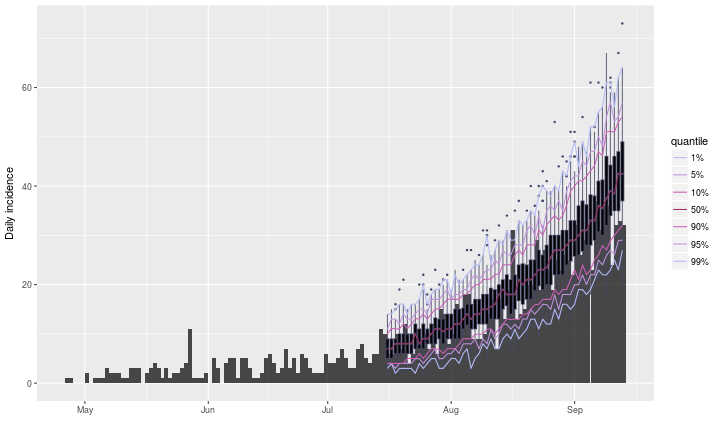
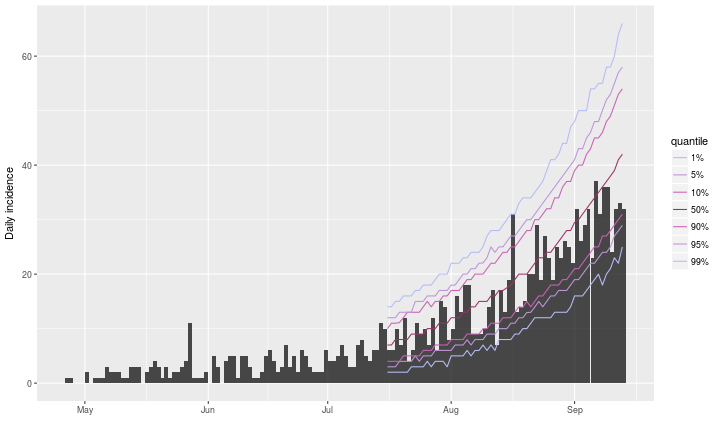
updating graphics

diff --git a/README.md b/README.md
@@ -130,7 +130,7 @@ of 1.5, from day 100 and for 60 days:
 ```r
 library(projections)
 set.seed(1)
-pred <- project(i[1:100], R = 1.5, si = si, n_days = 60)
+pred <- project(i[1:100], R = 1.5, si = si, n_days = 60, n_sim = 1000)
 pred
 ```
 
@@ -139,14 +139,14 @@ pred
 ## /// Incidence projections //
 ## 
 ##   // class: projections, matrix
-##   // 60 dates (rows); 100 simulations (columns)
+##   // 60 dates (rows); 1,000 simulations (columns)
 ## 
 ##  // first rows/columns:
 ##            [,1] [,2] [,3] [,4] [,5] [,6]
-## 2014-07-16    8    6    5   14    8    5
-## 2014-07-17    8    4    7    7    6   14
-## 2014-07-18    8    9    9    9    7   13
-## 2014-07-19   12   11   10    9    9    4
+## 2014-07-16    7    8    6   12    4    3
+## 2014-07-17   10    7    5    7   10   12
+## 2014-07-18    3    6    6   11    6    6
+## 2014-07-19    9    7    9    9    6   12
 ##  .
 ##  .
 ##  .
@@ -178,25 +178,25 @@ apply(pred, 1, mean) # average prediction per day
 
 ```
 ## 2014-07-16 2014-07-17 2014-07-18 2014-07-19 2014-07-20 2014-07-21 
-##       7.21       7.50       7.85       7.89       8.20       8.15 
+##      6.912      7.289      7.706      7.774      8.098      8.425 
 ## 2014-07-22 2014-07-23 2014-07-24 2014-07-25 2014-07-26 2014-07-27 
-##       8.46       9.27       9.01       9.38       9.44      10.21 
+##      8.669      9.112      9.272      9.712     10.003     10.024 
 ## 2014-07-28 2014-07-29 2014-07-30 2014-07-31 2014-08-01 2014-08-02 
-##      11.13      10.95      10.84      11.55      11.42      12.20 
+##     10.477     10.943     11.320     11.410     12.073     12.162 
 ## 2014-08-03 2014-08-04 2014-08-05 2014-08-06 2014-08-07 2014-08-08 
-##      12.19      13.17      13.99      13.78      14.39      14.32 
+##     12.543     13.035     13.437     13.667     14.265     14.718 
 ## 2014-08-09 2014-08-10 2014-08-11 2014-08-12 2014-08-13 2014-08-14 
-##      15.29      15.54      16.12      16.13      17.12      18.33 
+##     14.908     15.553     16.114     16.328     16.844     17.398 
 ## 2014-08-15 2014-08-16 2014-08-17 2014-08-18 2014-08-19 2014-08-20 
-##      18.59      18.17      18.99      20.29      20.24      20.96 
+##     17.880     18.263     18.995     19.770     20.108     20.817 
 ## 2014-08-21 2014-08-22 2014-08-23 2014-08-24 2014-08-25 2014-08-26 
-##      21.65      21.97      23.41      23.13      24.30      25.14 
+##     21.260     22.123     22.876     23.247     23.956     24.795 
 ## 2014-08-27 2014-08-28 2014-08-29 2014-08-30 2014-08-31 2014-09-01 
-##      26.47      26.07      26.64      27.75      29.24      30.19 
+##     25.603     26.175     27.145     27.997     28.709     29.856 
 ## 2014-09-02 2014-09-03 2014-09-04 2014-09-05 2014-09-06 2014-09-07 
-##      30.87      31.94      31.87      33.59      33.69      35.98 
+##     30.484     31.232     32.390     33.385     34.336     34.978 
 ## 2014-09-08 2014-09-09 2014-09-10 2014-09-11 2014-09-12 2014-09-13 
-##      36.36      38.54      39.53      39.78      41.56      43.24
+##     36.270     37.390     38.474     39.556     41.200     42.389
 ```
 
 ```r
@@ -205,35 +205,35 @@ apply(pred, 1, range) # range across simulations
 
 ```
 ##      2014-07-16 2014-07-17 2014-07-18 2014-07-19 2014-07-20 2014-07-21
-## [1,]          2          3          2          2          2          2
-## [2,]         14         15         16         19         21         15
+## [1,]          0          1          1          0          1          1
+## [2,]         16         17         17         17         17         18
 ##      2014-07-22 2014-07-23 2014-07-24 2014-07-25 2014-07-26 2014-07-27
-## [1,]          2          2          3          1          2          4
-## [2,]         16         16         20         22         18         19
+## [1,]          1          2          1          2          2          2
+## [2,]         21         19         22         21         20         23
 ##      2014-07-28 2014-07-29 2014-07-30 2014-07-31 2014-08-01 2014-08-02
-## [1,]          5          3          2          4          5          5
-## [2,]         23         20         21         22         19         23
+## [1,]          3          2          2          2          3          2
+## [2,]         22         25         25         27         26         27
 ##      2014-08-03 2014-08-04 2014-08-05 2014-08-06 2014-08-07 2014-08-08
-## [1,]          4          5          5          3          5          6
-## [2,]         21         23         27         27         25         26
+## [1,]          3          3          3          2          4          4
+## [2,]         26         28         25         28         31         29
 ##      2014-08-09 2014-08-10 2014-08-11 2014-08-12 2014-08-13 2014-08-14
-## [1,]          8          4          9          7          6          8
-## [2,]         31         31         26         29         32         29
+## [1,]          4          5          4          4          6          5
+## [2,]         30         33         35         31         36         32
 ##      2014-08-15 2014-08-16 2014-08-17 2014-08-18 2014-08-19 2014-08-20
-## [1,]          8          7          6          9         10          9
-## [2,]         34         31         35         37         32         35
+## [1,]          5          5          6          7          6          8
+## [2,]         37         36         40         38         38         39
 ##      2014-08-21 2014-08-22 2014-08-23 2014-08-24 2014-08-25 2014-08-26
-## [1,]         11         11          9         12         11         12
-## [2,]         40         36         40         43         41         39
+## [1,]          8          7          6          6          6          8
+## [2,]         40         42         49         44         48         48
 ##      2014-08-27 2014-08-28 2014-08-29 2014-08-30 2014-08-31 2014-09-01
-## [1,]         14         12         16         16         13         15
-## [2,]         53         44         46         45         51         51
+## [1,]          9         10         10          9         10         12
+## [2,]         46         45         49         51         51         55
 ##      2014-09-02 2014-09-03 2014-09-04 2014-09-05 2014-09-06 2014-09-07
-## [1,]         17         17         15         18         19         21
-## [2,]         48         54         47         61         52         61
+## [1,]         12         11         13         14         14         11
+## [2,]         65         62         58         69         60         68
 ##      2014-09-08 2014-09-09 2014-09-10 2014-09-11 2014-09-12 2014-09-13
-## [1,]         22         18         22         24         23         20
-## [2,]         60         67         62         59         67         73
+## [1,]         14         14         16         12         19         21
+## [2,]         66         68         63         71         75         75
 ```
 
 An alternative representation of the outcomes:
@@ -246,12 +246,12 @@ head(df)
 
 ```
 ##         date incidence sim
-## 1 2014-07-16         8   1
-## 2 2014-07-17         8   1
-## 3 2014-07-18         8   1
-## 4 2014-07-19        12   1
-## 5 2014-07-20        11   1
-## 6 2014-07-21        10   1
+## 1 2014-07-16         7   1
+## 2 2014-07-17        10   1
+## 3 2014-07-18         3   1
+## 4 2014-07-19         9   1
+## 5 2014-07-20        13   1
+## 6 2014-07-21         5   1
 ```
 
 ```r
@@ -272,7 +272,7 @@ Predictions can also be added to the epicurve:
 ```r
 library(magrittr)
 
-plot(i[20:160]) %>% add_projections(pred)
+plot(i[20:160]) %>% add_projections(pred, boxplots = FALSE)
 ```
 
 <img src="figure/plot_with_incidence-1.png" title="plot of chunk plot_with_incidence" alt="plot of chunk plot_with_incidence" width="80%" />
